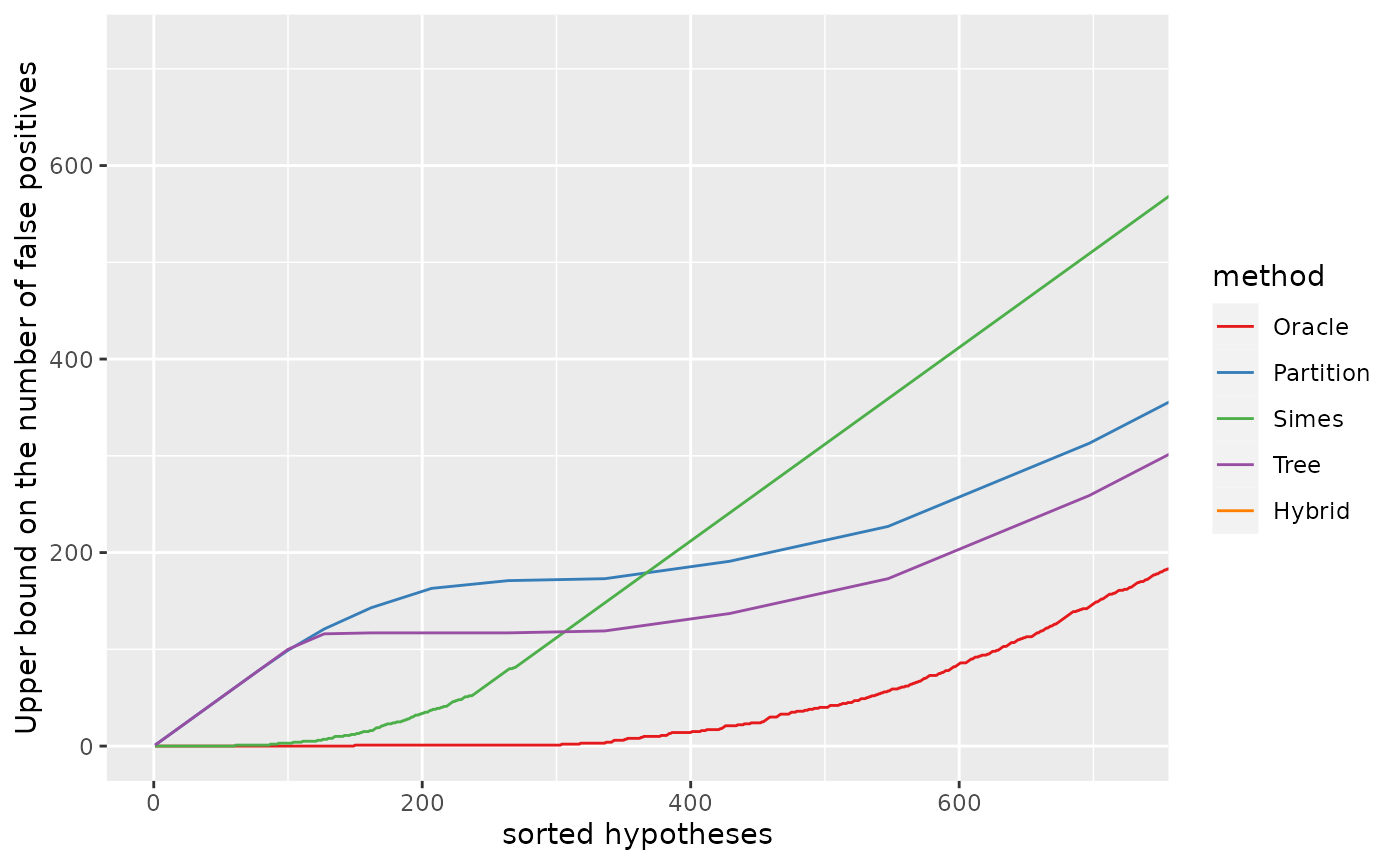
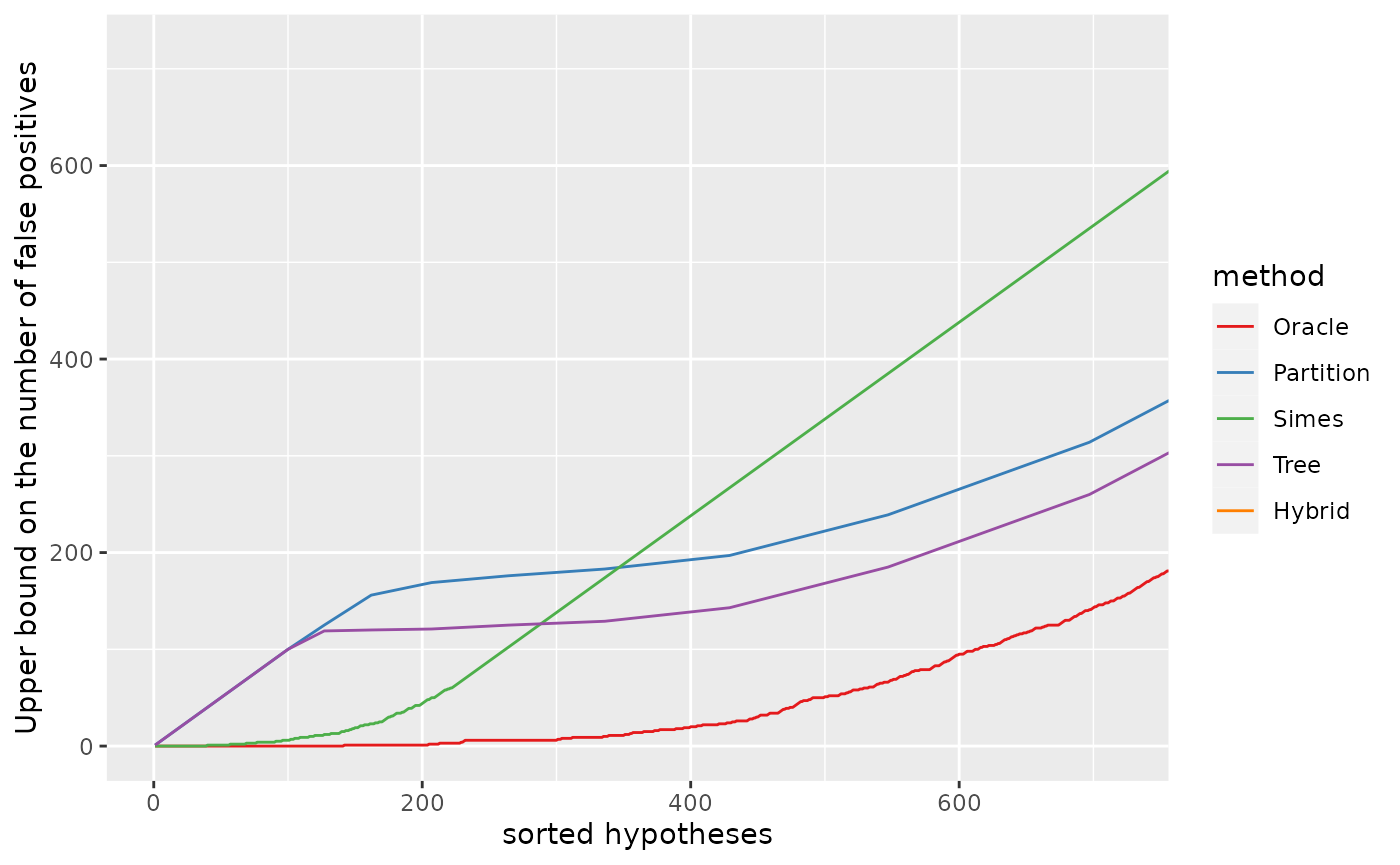
Built site for sanssouci: 0.12.7@cc30a1b

diff --git a/reference/rowWelchTests.html b/reference/rowWelchTests.html
@@ -162,7 +162,7 @@ alternative approach. Biometrika, <em>38</em>, 330-336</p>
 <span class="r-in"><span>  <span class="fu"><a href="https://rdrr.io/r/stats/t.test.html" class="external-link">t.test</a></span><span class="op">(</span><span class="va">x</span><span class="op">[</span><span class="va">categ</span> <span class="op">==</span> <span class="fl">1</span><span class="op">]</span>, <span class="va">x</span><span class="op">[</span><span class="va">categ</span> <span class="op">==</span> <span class="fl">0</span><span class="op">]</span>, alternative <span class="op">=</span> <span class="st">"greater"</span><span class="op">)</span><span class="op">$</span><span class="va">p.value</span></span></span>
 <span class="r-in"><span><span class="op">}</span><span class="op">)</span><span class="op">)</span></span></span>
 <span class="r-out co"><span class="r-pr">#&gt;</span>    user  system elapsed </span>
-<span class="r-out co"><span class="r-pr">#&gt;</span>   0.049   0.000   0.049 </span>
+<span class="r-out co"><span class="r-pr">#&gt;</span>   0.072   0.000   0.072 </span>
 <span class="r-in"><span><span class="fu"><a href="https://rdrr.io/r/base/all.html" class="external-link">all</a></span><span class="op">(</span><span class="fu"><a href="https://rdrr.io/r/base/MathFun.html" class="external-link">abs</a></span><span class="op">(</span><span class="va">fwt</span><span class="op">$</span><span class="va">p.value</span> <span class="op">-</span> <span class="va">pwt</span><span class="op">)</span> <span class="op">&lt;</span> <span class="fl">1e-10</span><span class="op">)</span> <span class="co">## same results</span></span></span>
 <span class="r-out co"><span class="r-pr">#&gt;</span> [1] TRUE</span>
 <span class="r-in"><span></span></span>
@@ -171,7 +171,7 @@ alternative approach. Biometrika, <em>38</em>, 330-336</p>
 <span class="r-in"><span><span class="va">categ_perm</span> <span class="op">&lt;-</span> <span class="fu"><a href="https://rdrr.io/r/base/lapply.html" class="external-link">replicate</a></span><span class="op">(</span><span class="va">B</span>, <span class="fu"><a href="https://rdrr.io/r/base/sample.html" class="external-link">sample</a></span><span class="op">(</span><span class="va">categ</span><span class="op">)</span><span class="op">)</span></span></span>
 <span class="r-in"><span><span class="fu"><a href="https://rdrr.io/r/base/system.time.html" class="external-link">system.time</a></span><span class="op">(</span><span class="va">fwt_perm</span> <span class="op">&lt;-</span> <span class="fu">rowWelchTests</span><span class="op">(</span><span class="va">mat</span>, <span class="va">categ_perm</span>, alternative <span class="op">=</span> <span class="st">"greater"</span><span class="op">)</span><span class="op">)</span></span></span>
 <span class="r-out co"><span class="r-pr">#&gt;</span>    user  system elapsed </span>
-<span class="r-out co"><span class="r-pr">#&gt;</span>   0.017   0.000   0.016 </span>
+<span class="r-out co"><span class="r-pr">#&gt;</span>   0.016   0.000   0.016 </span>
 <span class="r-in"><span><span class="fu"><a href="https://rdrr.io/r/utils/str.html" class="external-link">str</a></span><span class="op">(</span><span class="va">fwt_perm</span><span class="op">)</span></span></span>
 <span class="r-out co"><span class="r-pr">#&gt;</span> List of 4</span>
 <span class="r-out co"><span class="r-pr">#&gt;</span>  $ statistic: num [1:300, 1:100] 0.251 0.662 -0.916 1.41 0.188 ...</span>

diff --git a/reference/SansSouci-methods.html b/reference/SansSouci-methods.html
@@ -170,7 +170,7 @@ thresholds: get thresholds"><!-- mathjax --><script src="https://cdnjs.cloudflar
 <span class="r-out co"><span class="r-pr">#&gt;</span> 		(of size:	K=9038)</span>
 <span class="r-out co"><span class="r-pr">#&gt;</span> </span>
 <span class="r-out co"><span class="r-pr">#&gt;</span> Output:</span>
-<span class="r-out co"><span class="r-pr">#&gt;</span> 	Calibration parameter:	lambda=0.3221729</span>
+<span class="r-out co"><span class="r-pr">#&gt;</span> 	Calibration parameter:	lambda=0.1810806</span>
 <span class="r-in"><span><span class="fu"><a href="https://rdrr.io/r/utils/str.html" class="external-link">str</a></span><span class="op">(</span><span class="fu"><a href="all-generics.html">pValues</a></span><span class="op">(</span><span class="va">res</span><span class="op">)</span><span class="op">)</span></span></span>
 <span class="r-out co"><span class="r-pr">#&gt;</span>  Named num [1:9038] 0.9647 0.5203 0.9516 0.8438 0.0045 ...</span>
 <span class="r-out co"><span class="r-pr">#&gt;</span>  - attr(*, "names")= chr [1:9038] "ENSG00000000003" "ENSG00000000419" "ENSG00000000457" "ENSG00000000460" ...</span>
@@ -178,7 +178,7 @@ thresholds: get thresholds"><!-- mathjax --><script src="https://cdnjs.cloudflar
 <span class="r-out co"><span class="r-pr">#&gt;</span>  Named num [1:9038] -0.0044 0.09394 -0.00426 -0.00886 0.27775 ...</span>
 <span class="r-out co"><span class="r-pr">#&gt;</span>  - attr(*, "names")= chr [1:9038] "ENSG00000000003" "ENSG00000000419" "ENSG00000000457" "ENSG00000000460" ...</span>
 <span class="r-in"><span><span class="fu"><a href="https://rdrr.io/r/utils/str.html" class="external-link">str</a></span><span class="op">(</span><span class="fu"><a href="all-generics.html">thresholds</a></span><span class="op">(</span><span class="va">res</span><span class="op">)</span><span class="op">)</span></span></span>
-<span class="r-out co"><span class="r-pr">#&gt;</span>  num [1:9038] 3.56e-05 7.13e-05 1.07e-04 1.43e-04 1.78e-04 ...</span>
+<span class="r-out co"><span class="r-pr">#&gt;</span>  num [1:9038] 2.00e-05 4.01e-05 6.01e-05 8.01e-05 1.00e-04 ...</span>
 <span class="r-in"><span><span class="fu"><a href="volcanoPlot.html">volcanoPlot</a></span><span class="op">(</span><span class="va">res</span>, q <span class="op">=</span> <span class="fl">0.05</span>, r <span class="op">=</span> <span class="fl">0.5</span><span class="op">)</span></span></span>
 <span class="r-plt img"><img src="SansSouci-methods-1.png" alt="" width="700" height="433"></span>
 <span class="r-in"><span></span></span>

diff --git a/articles/jointErrorRateCalibration_simulations.html b/articles/jointErrorRateCalibration_simulations.html
@@ -168,7 +168,7 @@
 <span><span class="co">##      (of size:   K=500)</span></span>
 <span><span class="co">## </span></span>
 <span><span class="co">## Output:</span></span>
-<span><span class="co">##  Calibration parameter:  lambda=0.2565321</span></span></code></pre>
+<span><span class="co">##  Calibration parameter:  lambda=0.2447954</span></span></code></pre>
 <p>The output of the calibration is the following <code>SansSouci</code> object. In particular:</p>
 <ul>
 <li>
@@ -191,7 +191,7 @@
 <div class="sourceCode" id="cb7"><pre class="downlit sourceCode r">
 <code class="sourceCode R"><span><span class="va">cal</span><span class="op">$</span><span class="va">output</span><span class="op">$</span><span class="va">lambda</span></span></code></pre></div>
 <pre><code><span><span class="co">##       20% </span></span>
-<span><span class="co">## 0.2565321</span></span></code></pre>
+<span><span class="co">## 0.2447954</span></span></code></pre>
 <div class="sourceCode" id="cb9"><pre class="downlit sourceCode r">
 <code class="sourceCode R"><span><span class="va">cal</span><span class="op">$</span><span class="va">output</span><span class="op">$</span><span class="va">lambda</span> <span class="op">&gt;</span> <span class="va">alpha</span></span></code></pre></div>
 <pre><code><span><span class="co">##  20% </span></span>
@@ -256,7 +256,7 @@
 <span><span class="co">##      (of size:   K=500)</span></span>
 <span><span class="co">## </span></span>
 <span><span class="co">## Output:</span></span>
-<span><span class="co">##  Calibration parameter:  lambda=0.519773</span></span></code></pre>
+<span><span class="co">##  Calibration parameter:  lambda=0.2315166</span></span></code></pre>
 <p>Again we expect <span class="math inline">\(\lambda &gt; \alpha\)</span>.</p>
 <div class="section level3">
 <h3 id="confidence-curves">Confidence curves<a class="anchor" aria-label="anchor" href="#confidence-curves"></a>

diff --git a/reference/rowPearsonCorrelationTests.html b/reference/rowPearsonCorrelationTests.html
@@ -142,7 +142,7 @@ Must be one of "two.sided" (default), "greater" or "less". As in
 <span class="r-in"><span><span class="va">categ</span> <span class="op">&lt;-</span> <span class="fu"><a href="https://rdrr.io/r/stats/Normal.html" class="external-link">rnorm</a></span><span class="op">(</span><span class="va">n</span>, mean <span class="op">=</span> <span class="fl">10</span><span class="op">)</span></span></span>
 <span class="r-in"><span><span class="fu"><a href="https://rdrr.io/r/base/system.time.html" class="external-link">system.time</a></span><span class="op">(</span><span class="va">fwt</span> <span class="op">&lt;-</span> <span class="fu">rowPearsonCorrelationTests</span><span class="op">(</span><span class="va">mat</span>, <span class="va">categ</span>, alternative <span class="op">=</span> <span class="st">"greater"</span><span class="op">)</span><span class="op">)</span></span></span>
 <span class="r-out co"><span class="r-pr">#&gt;</span>    user  system elapsed </span>
-<span class="r-out co"><span class="r-pr">#&gt;</span>   0.004   0.000   0.005 </span>
+<span class="r-out co"><span class="r-pr">#&gt;</span>   0.005   0.000   0.005 </span>
 <span class="r-in"><span><span class="fu"><a href="https://rdrr.io/r/utils/str.html" class="external-link">str</a></span><span class="op">(</span><span class="va">fwt</span><span class="op">)</span></span></span>
 <span class="r-out co"><span class="r-pr">#&gt;</span> List of 3</span>
 <span class="r-out co"><span class="r-pr">#&gt;</span>  $ p.value  : num [1:300] 0.746 0.11 0.813 0.784 0.162 ...</span>

diff --git a/reference/SansSouciSim.html b/reference/SansSouciSim.html
@@ -113,8 +113,8 @@ equi-correlated model</p>
 <span class="r-in"><span><span class="co"># upper bound on number of signals if the entire data set</span></span></span>
 <span class="r-in"><span><span class="co"># (and corresponding lower bound on FDP)</span></span></span>
 <span class="r-in"><span><span class="fu"><a href="https://rdrr.io/r/stats/predict.html" class="external-link">predict</a></span><span class="op">(</span><span class="va">res</span><span class="op">)</span></span></span>
-<span class="r-out co"><span class="r-pr">#&gt;</span>         TP        FDP </span>
-<span class="r-out co"><span class="r-pr">#&gt;</span> 49.0000000  0.9097606 </span>
+<span class="r-out co"><span class="r-pr">#&gt;</span>        TP       FDP </span>
+<span class="r-out co"><span class="r-pr">#&gt;</span> 4.0000000 0.9926335 </span>
 <span class="r-in"><span></span></span>
 <span class="r-in"><span><span class="co"># confidence curve</span></span></span>
 <span class="r-in"><span><span class="fu"><a href="https://rdrr.io/r/graphics/plot.default.html" class="external-link">plot</a></span><span class="op">(</span><span class="va">res</span><span class="op">)</span></span></span>

diff --git a/articles/Simes_equi-correlation.html b/articles/Simes_equi-correlation.html
@@ -175,19 +175,19 @@
 <tbody>
 <tr class="odd">
 <td align="left">Achieved level/target level</td>
-<td align="right">0.98</td>
-<td align="right">0.82</td>
-<td align="right">0.62</td>
-<td align="right">0.43</td>
-<td align="right">0.44</td>
+<td align="right">1.06</td>
+<td align="right">0.87</td>
+<td align="right">0.77</td>
+<td align="right">0.56</td>
+<td align="right">0.45</td>
 </tr>
 <tr class="even">
 <td align="left">Standard error</td>
 <td align="right">0.06</td>
 <td align="right">0.06</td>
+<td align="right">0.06</td>
 <td align="right">0.05</td>
-<td align="right">0.04</td>
-<td align="right">0.04</td>
+<td align="right">0.05</td>
 </tr>
 </tbody>
 </table>
